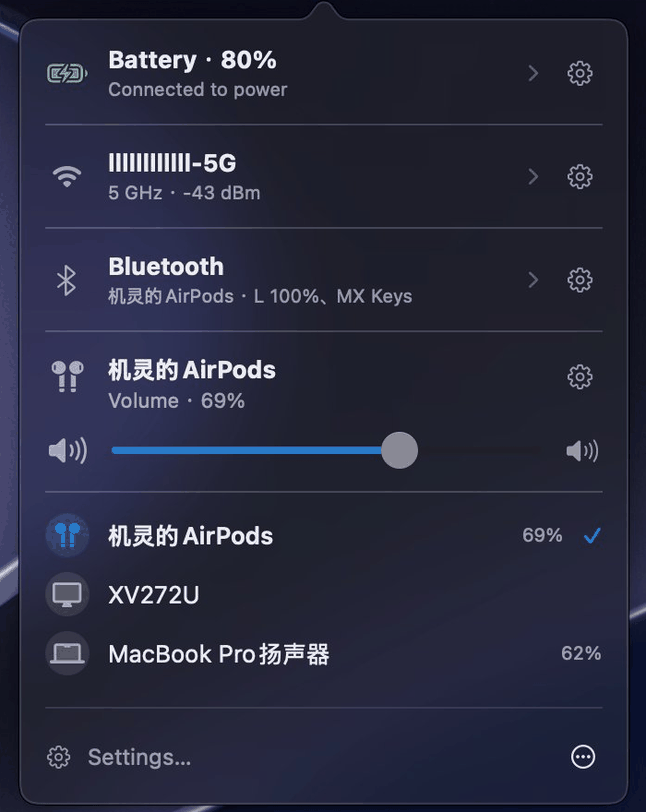
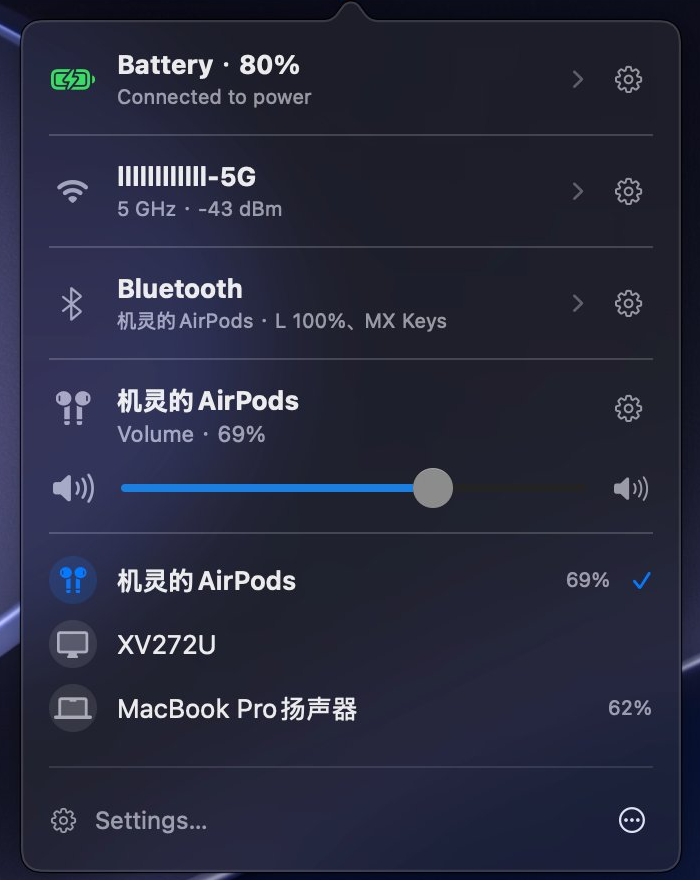
docs: use unquantized native-resolution screenshots
The previous images were palette-quantized to 128/256 colors, which
shifted the colors. Rebuild both from the original captures with no
quantization and no resampling: the menu bar comparison is two native
menu bar rows, the popover is the native 700x880 crop. Every pixel now
matches the source screenshot exactly.

diff --git a/README.md b/README.md
@@ -19,7 +19,7 @@
 </p>
 
 <p align="center">
-  <img src="screenshots/popup.png" width="360" alt="Status Trio popover showing battery, Wi-Fi, Bluetooth, and volume controls in the macOS menu bar">
+  <img src="screenshots/popup.png" width="350" alt="Status Trio popover showing battery, Wi-Fi, Bluetooth, and volume controls in the macOS menu bar">
 </p>
 
 Status Trio is a native macOS status app that combines Wi-Fi, battery, and volume into one compact, configurable icon, shown in the menu bar, in the Dock, or in both. It is inspired by the iPhone Duo's combined status bar icon for Wi-Fi, Battery, and Cellular Data, adapted for Mac with Volume instead of Cellular Data.

diff --git a/README.zh-CN.md b/README.zh-CN.md
@@ -19,7 +19,7 @@
 </p>
 
 <p align="center">
-  <img src="screenshots/popup.png" width="360" alt="Status Trio 状态弹层，展示 macOS 菜单栏中的电池、Wi-Fi、蓝牙和音量">
+  <img src="screenshots/popup.png" width="350" alt="Status Trio 状态弹层，展示 macOS 菜单栏中的电池、Wi-Fi、蓝牙和音量">
 </p>
 
 Status Trio 是一个原生 macOS 状态应用，将 Wi-Fi、电池和音量整合进一个紧凑、可配置的图标，可显示在菜单栏、程序坞，或两处同时显示。灵感源自 iPhone Duo 将 Wi-Fi、Battery 和 Cellular Data 合并展示的 status bar icon，并在 Mac 上以音量替代 Cellular Data。
